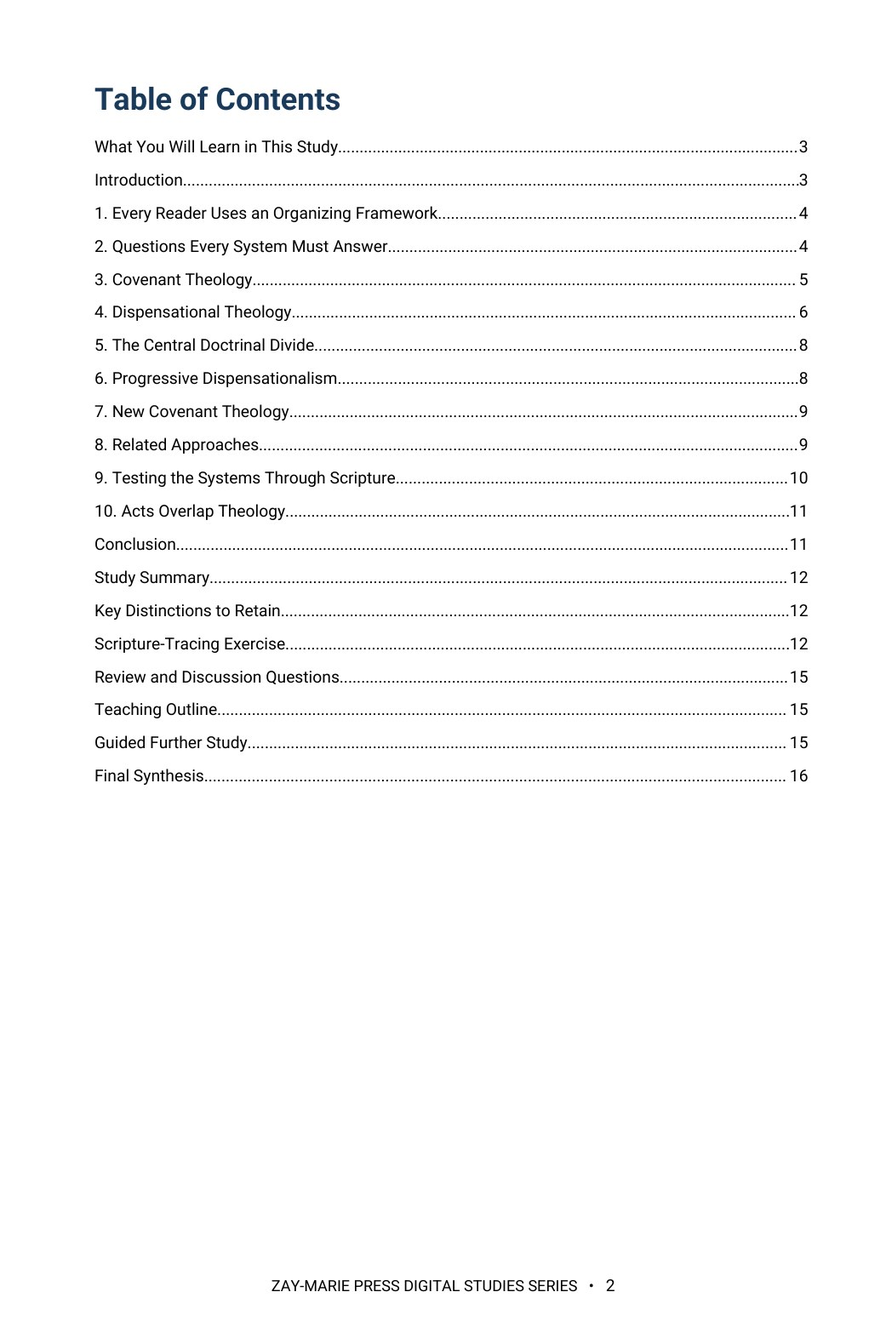
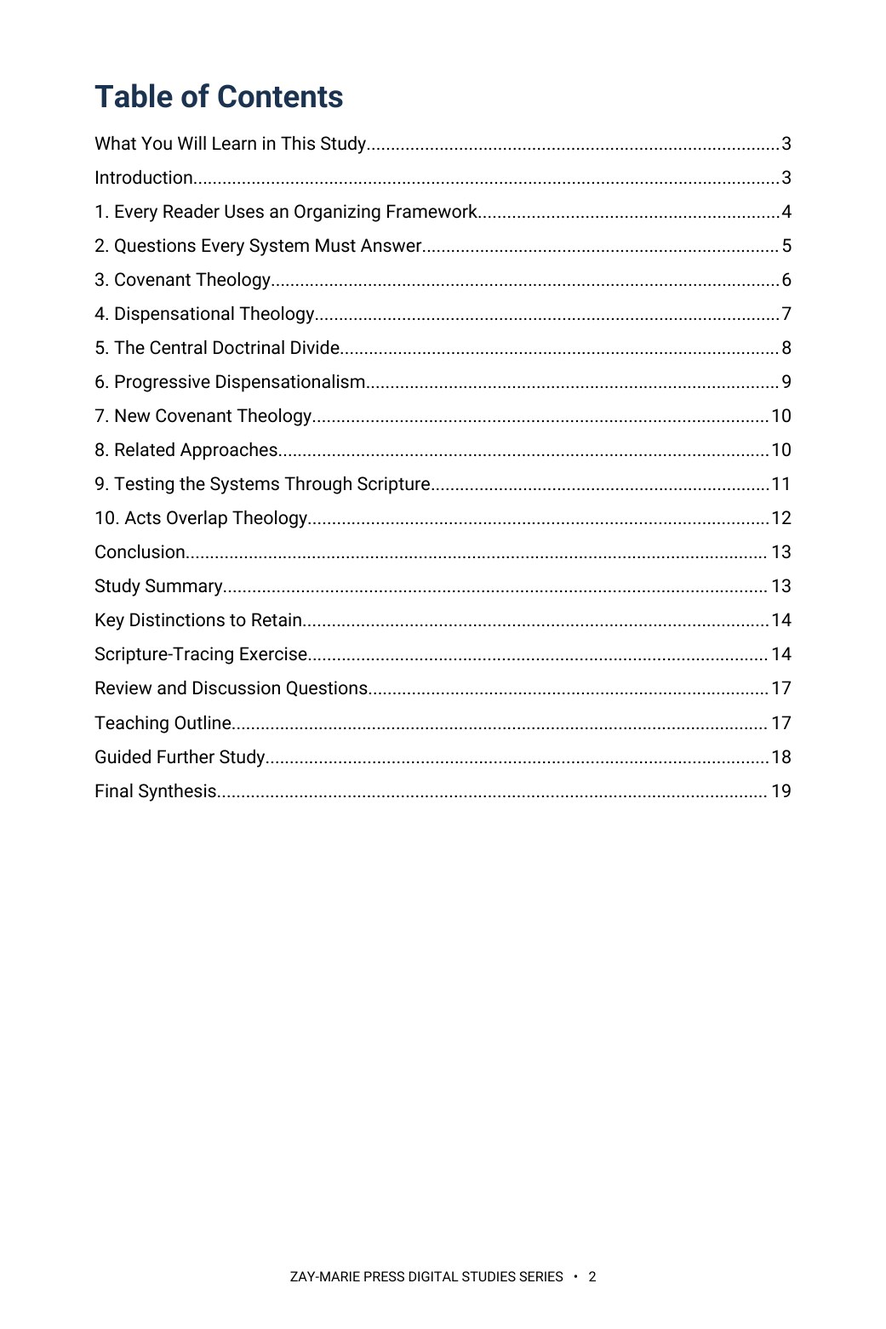
Study 32: retrofit to doctrinal upgrade and v1.48 layout (19 pp, 10 pt); site.js 32:19; previews 2, 3, 5; trackers v1.42/v1.136
Claude-Session: https://claude.ai/code/session_01KcENxFzE91mCRyTPWhcwnE

diff --git a/study-32-covenant-theology-and-dispensational-theology.html b/study-32-covenant-theology-and-dispensational-theology.html
@@ -2,12 +2,12 @@
 <html lang="en"><head><meta charset="utf-8"><meta name="viewport" content="width=device-width,initial-scale=1"><title>Covenant Theology and Dispensational Theology | Zay-Marie Press</title><meta name="description" content="Compare Covenant Theology and Dispensational Theology across biblical unity, covenants, Israel and the Church, prophecy, the Kingdom, and Acts chronology."><link rel="stylesheet" href="styles.css?v=20260921-4"><link rel="icon" type="image/png" href="assets/zay-marie-press-favicon.png"><style>
 .study-detail-page{background:#fff;color:#252525}.detail-hero{background:linear-gradient(135deg,#f8f5ec,#e3ece2);padding:58px 0}.detail-hero-grid{display:grid;grid-template-columns:minmax(250px,.72fr) minmax(0,1.28fr);gap:58px;align-items:center}.detail-cover{max-width:390px;margin:auto}.detail-cover img{display:block;width:100%;height:auto;box-shadow:0 14px 36px rgba(8,45,69,.18)}.detail-hero h1{font-size:clamp(2.7rem,5vw,4.7rem);line-height:1.02;margin:8px 0 10px;color:#143823}.detail-subtitle{font-family:Georgia,serif;font-size:1.35rem;font-weight:700;color:#082d45;margin:0 0 7px}.detail-kicker{font-family:Georgia,serif;font-style:italic;font-size:1.05rem;color:#4a4a44;margin:0 0 22px}.detail-copy{font-size:1.08rem;line-height:1.65;max-width:760px}.detail-buyline{display:flex;align-items:center;gap:18px;flex-wrap:wrap;margin-top:25px}.detail-price{font-family:Georgia,serif;font-size:2rem;font-weight:700;color:#143823}.detail-format,.preview-card .page-no{font-family:Arial,sans-serif;font-size:.76rem;font-weight:700;letter-spacing:.1em;text-transform:uppercase;color:#176b3a}.detail-button{display:inline-block;background:#176b3a;color:#fff;padding:13px 22px;font-family:Arial,sans-serif;font-size:.8rem;font-weight:700;letter-spacing:.07em;text-transform:uppercase}.detail-button.pending{opacity:.72;cursor:default}.detail-section{padding:66px 0}.detail-section.soft{background:#f6f7f2}.detail-section.cream{background:#faf8f2}.detail-section h2{color:#143823;margin:6px 0 18px;font-size:clamp(2rem,3.4vw,3rem)}.detail-section .lead{max-width:920px;font-size:1.1rem;line-height:1.62}.study-distinction{max-width:920px;margin-top:28px;margin-bottom:28px;padding:26px 28px;background:#fff;border:1px solid #d8d1bf;border-left:4px solid #b8871c}.study-distinction h3{margin:0 0 10px;color:#143823}.study-distinction p{margin:0 0 14px;line-height:1.62}.study-distinction a{font-family:Arial,sans-serif;font-weight:700;color:#176b3a;text-decoration:none}.study-points{display:grid;grid-template-columns:repeat(3,1fr);gap:18px;margin-top:28px;margin-bottom:28px}.study-point,.scripture-card,.preview-card,.include-item{background:#fff;border:1px solid var(--line);text-align:left}.study-point{border-top:3px solid #176b3a;padding:22px}.study-point h3{color:#143823;margin:0 0 8px;font-size:1.2rem}.study-point p,.scripture-card p,.preview-card p,.include-item p{margin:0;line-height:1.55}.scripture-grid{display:grid;grid-template-columns:repeat(4,1fr);gap:14px;margin-top:24px;margin-bottom:24px}.scripture-card{padding:22px 20px;color:#143823}.scripture-card h3{margin:0 0 9px;font-family:Georgia,serif;font-size:1rem;line-height:1.35}.scripture-card p{font-size:.94rem;color:#45453f}.excerpt{max-width:900px;margin:28px auto;border-left:4px solid #b8871c;padding:10px 0 10px 28px}.excerpt blockquote{font-family:Georgia,serif;font-size:clamp(1.45rem,2.5vw,2rem);line-height:1.45;color:#143823;margin:0 0 16px}.excerpt p{line-height:1.6;margin:0}.preview-grid{display:grid;grid-template-columns:repeat(2,1fr);gap:20px;margin-top:28px;margin-bottom:28px}.preview-card{padding:18px;min-height:210px;box-shadow:0 7px 20px rgba(20,40,25,.05)}.preview-image-link{display:block;margin:0 0 18px}.preview-image-link img{display:block;width:100%;height:auto;border:1px solid #d8d1bf;box-shadow:0 8px 22px rgba(20,40,25,.1);transition:transform .18s ease,box-shadow .18s ease}.preview-image-link:hover img{transform:translateY(-2px);box-shadow:0 11px 28px rgba(20,40,25,.16)}.preview-card h3{color:#143823;margin:8px 0 10px}.preview-instruction{margin:10px 0 0;font-family:Arial,sans-serif;font-size:.78rem;letter-spacing:.04em;color:#5b5b55}.includes-grid{display:grid;grid-template-columns:repeat(4,1fr);gap:14px;margin-top:26px}.include-item{padding:22px 20px;color:#143823}.include-item h3{margin:0 0 9px;font-family:Arial,sans-serif;font-size:.86rem;line-height:1.35;letter-spacing:.02em}.include-item p{font-size:.94rem;color:#45453f}.final-buy{background:#082d45;color:#fff;border-top:4px solid #b8871c;padding:42px 48px;display:grid;grid-template-columns:1fr auto;gap:36px;align-items:center}.final-buy .eyebrow,.final-buy h2,.final-buy .detail-price{color:#fff}.final-buy h2{margin:7px 0 6px}.final-buy p{margin:0}.final-offer{text-align:center}.back-link{display:inline-block;margin-top:18px;color:#143823;font-family:Arial,sans-serif;font-weight:700;text-decoration:none}.preview-lightbox{position:fixed;inset:0;z-index:10000;display:none;align-items:flex-start;justify-content:center;background:rgba(8,22,16,.88);padding:24px;overflow:auto}.preview-lightbox.open{display:flex}.preview-lightbox img{display:block;width:auto;height:auto;max-width:none;box-shadow:0 18px 55px rgba(0,0,0,.4);background:#fff}.preview-lightbox-close{position:fixed;top:18px;right:24px;z-index:10001;width:46px;height:46px;border:1px solid rgba(255,255,255,.65);border-radius:50%;background:rgba(0,0,0,.55);color:#fff;font:32px/1 Arial,sans-serif;cursor:pointer}@media(max-width:900px){.detail-hero-grid{grid-template-columns:1fr;gap:34px}.detail-cover{max-width:330px}.study-points{grid-template-columns:repeat(2,1fr)}.scripture-grid,.includes-grid{grid-template-columns:repeat(2,1fr)}.preview-grid,.final-buy{grid-template-columns:1fr}.final-offer{text-align:left}}@media(max-width:560px){.detail-hero{padding:42px 0}.detail-section{padding:50px 0}.study-points,.scripture-grid,.includes-grid{grid-template-columns:1fr}.final-buy{padding:32px 24px}.detail-buyline{align-items:flex-start;flex-direction:column;gap:8px}.preview-lightbox{padding:58px 10px 24px}.preview-lightbox img{width:100%;max-width:100%;height:auto}}</style></head><body class="study-detail-page">
 <header class="site-header"><div class="wrap nav"><a class="logo" href="index.html" aria-label="Zay-Marie Press home"><img src="assets/zay-marie-press-logo-hq.png" alt="Zay-Marie Press" width="420" height="238"></a><button class="menu-toggle" type="button" aria-expanded="false" aria-controls="primary-nav">MENU</button><nav aria-label="Primary navigation" class="primary-nav" id="primary-nav"><a href="index.html">HOME</a><a href="books.html">BOOKS</a><a href="series.html">SERIES</a><a class="active" aria-current="page" href="digital-studies.html">DIGITAL STUDIES</a><a href="biblical-hermeneutics-course.html">COURSE</a><a href="about.html">ABOUT</a><a href="resources.html">RESOURCES</a><a href="contact.html">CONTACT</a></nav></div></header><main>
-<section class="detail-hero"><div class="wrap detail-hero-grid"><div class="detail-cover"><picture><source srcset="assets/study-32-cover.webp" type="image/webp"><img src="assets/study-32-cover.jpg" alt="Covenant Theology and Dispensational Theology cover"></picture></div><div><div class="eyebrow">STUDY 32 · DIGITAL STUDY</div><h1>Covenant Theology and Dispensational Theology</h1><p class="detail-subtitle">Comparing the Major Systems That Organize Biblical Revelation</p><p class="detail-kicker">A disciplined comparison of the systems that shape how readers understand the Bible</p><p class="detail-copy">Covenant Theology and Dispensational Theology are the two dominant macro-frameworks in Protestant interpretation. Each offers an integrated account of biblical unity, revelation, covenants, Israel and the Church, prophecy, the Kingdom, and the relationship between the Testaments.</p><p class="detail-copy">This study describes both systems on their own terms, locates major secondary approaches, tests every framework through consistent biblical controls, and explains the distinct Acts Overlap position without turning the study into a product showcase.</p><div class="detail-buyline"><span class="detail-price">$5.99</span><span class="detail-format">Digital PDF · 16 Pages</span><span class="detail-button pending" aria-disabled="true">Checkout Coming Soon</span></div></div></div></section>
+<section class="detail-hero"><div class="wrap detail-hero-grid"><div class="detail-cover"><picture><source srcset="assets/study-32-cover.webp" type="image/webp"><img src="assets/study-32-cover.jpg" alt="Covenant Theology and Dispensational Theology cover"></picture></div><div><div class="eyebrow">STUDY 32 · DIGITAL STUDY</div><h1>Covenant Theology and Dispensational Theology</h1><p class="detail-subtitle">Comparing the Major Systems That Organize Biblical Revelation</p><p class="detail-kicker">A disciplined comparison of the systems that shape how readers understand the Bible</p><p class="detail-copy">Covenant Theology and Dispensational Theology are the two dominant macro-frameworks in Protestant interpretation. Each offers an integrated account of biblical unity, revelation, covenants, Israel and the Church, prophecy, the Kingdom, and the relationship between the Testaments.</p><p class="detail-copy">This study describes both systems on their own terms, locates major secondary approaches, tests every framework through consistent biblical controls, and explains the distinct Acts Overlap position without turning the study into a product showcase.</p><div class="detail-buyline"><span class="detail-price">$5.99</span><span class="detail-format">Digital PDF · 19 Pages</span><span class="detail-button pending" aria-disabled="true">Checkout Coming Soon</span></div></div></div></section>
 <section class="detail-section"><div class="wrap"><div class="eyebrow">ABOUT THIS STUDY</div><h2>Every Reader Uses an Organizing Framework</h2><p class="lead">A framework determines how readers connect earlier promises with later revelation, classify continuity and distinction, identify the recipients of covenants, and understand Israel, the Church, prophecy, and the Kingdom. Those assumptions shape conclusions even when the reader does not use a formal theological label.</p><p class="lead">This study makes those assumptions visible and testable. It compares the systems through the same doctrinal questions so their genuine strengths, differences, and unresolved tensions can be evaluated from Scripture.</p><p class="lead">This is not a study of the Israel–Body distinction itself, which Study 4 establishes on its own terms, nor of the specific method for learning from Israel’s Scriptures, which Study 39 supplies as a working rule. Its task is broader and prior to both: to compare the two organizing frameworks themselves — how each connects promise to fulfillment and assigns covenant recipients — and to test their genuine differences against Scripture rather than against each other’s caricatures.</p><div class="study-distinction"><h3>How These Studies Relate</h3><p>Study 32 compares how covenant theology and dispensational theology organize biblical promises, continuity, and distinctions.</p><p><a href="study-04-israel-and-the-body-of-christ.html">Study 4 — Israel and the Body of Christ</a> Test each system’s treatment of Israel and the Body against a focused study of their corporate identities, callings, and promises; the comparison moves from labels to specific scriptural claims.</p><p><a href="study-39-the-churchs-relationship-to-israels-scriptures.html">Study 39 — The Church’s Relationship to Israel’s Scriptures</a> Apply an audience-sensitive reading method to Israel’s earlier Scriptures; it provides a concrete test of how any larger theological system handles original recipients and present application.</p><p class="connection-guide-link"><a href="study-connections.html#study-32">Explore the full connection guide for Study 32 →</a></p></div></div></section>
 <section class="detail-section soft"><div class="wrap"><div class="eyebrow">WHAT YOU’LL STUDY</div><h2>Compare the Systems Through Consistent Questions</h2><div class="study-points"><div class="study-point"><h3>Biblical Unity</h3><p>Identify what each framework believes holds the canon together as one revelation.</p></div><div class="study-point"><h3>Covenants</h3><p>Compare theological covenant structures with the biblical covenants and their stated recipients.</p></div><div class="study-point"><h3>Israel and the Church</h3><p>Examine whether the two are identified, organically continuous, distinguishable, or programmatically distinct.</p></div><div class="study-point"><h3>Promise and Fulfillment</h3><p>Ask whether later fulfillment preserves the wording, recipient, and terms of earlier promises.</p></div><div class="study-point"><h3>Kingdom and Prophecy</h3><p>Compare present, future, earthly, heavenly, christological, and typological claims.</p></div><div class="study-point"><h3>Paul and Acts</h3><p>Trace how progressive revelation, Paul’s stewardship, and the Acts narrative bear on whether Israel’s and the Body’s commissions operate together, and state a conclusion with its level of evidence.</p></div></div></div></section>
 <section class="detail-section cream"><div class="wrap"><div class="eyebrow">KEY SCRIPTURES</div><h2>Test the Frameworks Against the Text</h2><div class="scripture-grid"><div class="scripture-card"><h3>Genesis 12:1–3</h3><p>The recipients and terms of the Abrahamic promises.</p></div><div class="scripture-card"><h3>2 Samuel 7:8–17</h3><p>The Davidic throne, dynasty, nation, and Kingdom expectation.</p></div><div class="scripture-card"><h3>Jeremiah 31:31–37</h3><p>The named parties and stated promises of the New Covenant.</p></div><div class="scripture-card"><h3>Romans 9–11</h3><p>Israel’s identity, present condition, remnant, and future salvation.</p></div><div class="scripture-card"><h3>Ephesians 2–3</h3><p>The one Body, heavenly position, and Mystery revealed through Paul.</p></div><div class="scripture-card"><h3>Hebrews 8:6–13</h3><p>Later use of Jeremiah’s New Covenant prophecy.</p></div><div class="scripture-card"><h3>Acts 9 and 28</h3><p>Paul’s calling, the local turns to the Gentiles, and the narrative at Rome.</p></div><div class="scripture-card"><h3>Revelation 20–22</h3><p>Kingdom fulfillment, final judgment, and the new creation.</p></div></div></div></section>
 <section class="detail-section"><div class="wrap"><div class="eyebrow">FROM THE STUDY</div><h2>Scripture Must Test Every System</h2><div class="excerpt"><blockquote>“A system is useful only to the extent that it accounts for the text.”</blockquote><p>No theological framework should be protected from passages that place its assumptions under pressure. Meaning, audience, assignment, promise, revelatory setting, and difficult texts must control the conclusion.</p></div></div></section>
-<section class="detail-section soft"><div class="wrap"><div class="eyebrow">A LOOK INSIDE</div><h2>Preview the Study Before You Purchase</h2><p class="preview-instruction">Click any page to enlarge it for reading.</p><div class="preview-grid"><div class="preview-card"><a class="preview-image-link" data-preview-lightbox href="assets/study-32-page-2.jpg"><img src="assets/study-32-page-2.jpg" alt="Study 32 interior preview — page 2, table of contents"></a><div class="page-no">Page 2</div><h3>Table of Contents</h3><p>See how the study moves from framework fundamentals through each system to the biblical controls.</p></div><div class="preview-card"><a class="preview-image-link" data-preview-lightbox href="assets/study-32-page-3.jpg"><img src="assets/study-32-page-3.jpg" alt="Study 32 interior preview — page 3, What You Will Learn and Study Goal"></a><div class="page-no">Page 3</div><h3>What You Will Learn</h3><p>Begin with the skills you will practice in describing, comparing, and testing the major systems.</p></div><div class="preview-card"><a class="preview-image-link" data-preview-lightbox href="assets/study-32-page-5.jpg"><img src="assets/study-32-page-5.jpg" alt="Study 32 interior preview — page 5, framework questions and Covenant Theology"></a><div class="page-no">Page 5</div><h3>Questions Every System Must Answer</h3><p>Compare the frameworks through consistent questions before examining their conclusions.</p></div></div></div></section>
-<section class="detail-section"><div class="wrap"><div class="eyebrow">WHAT’S INCLUDED</div><h2>A Focused Study Built for<br>Comparison and Evaluation</h2><div class="includes-grid"><div class="include-item"><h3>16-Page Biblical Study</h3><p>A detailed comparative treatment of the major systems and related approaches.</p></div><div class="include-item"><h3>Ten Teaching Sections</h3><p>Move from framework fundamentals through the Acts Overlap evaluative position.</p></div><div class="include-item"><h3>Consistent Comparison Method</h3><p>Ask the same controlling questions of every system before reaching conclusions.</p></div><div class="include-item"><h3>Comparative Tables</h3><p>Review the major distinctions through clear, high-contrast reference charts.</p></div><div class="include-item"><h3>Scripture-Tracing Exercise</h3><p>Test covenant, Kingdom, Israel, Church, Pauline, and Acts passages in context.</p></div><div class="include-item"><h3>Review Questions</h3><p>Test both theological understanding and the ability to evaluate frameworks fairly.</p></div><div class="include-item"><h3>Teaching Outline</h3><p>A ready framework for presenting the systems and their differences responsibly.</p></div><div class="include-item"><h3>Guided Further Study</h3><p>Grouped passages and evidence controls help readers continue the investigation independently.</p></div></div></div></section>
-<section class="detail-section cream"><div class="wrap"><div class="final-buy"><div><div class="eyebrow">STUDY 32 · DIGITAL STUDY</div><h2>Covenant Theology and Dispensational Theology</h2><p>Digital PDF · 16 Pages · For personal use</p></div><div class="final-offer"><div class="detail-price">$5.99</div><span class="detail-button pending" aria-disabled="true">Checkout Coming Soon</span></div></div><a class="back-link" href="digital-studies.html">← Back to All Digital Studies</a></div></section><section class="study-method-course-bridge"><div class="wrap"><div class="study-method-course-panel"><div><div class="eyebrow">BUILD THE INTERPRETIVE METHOD</div><h2>Want More Than a Focused Study?</h2><p>Digital Studies examine particular biblical subjects and difficult passages. The 40-lesson Biblical Hermeneutics course teaches a complete, repeatable method for establishing meaning in context, determining proper assignment, and making responsible application.</p></div><a class="btn btn-primary" href="biblical-hermeneutics-course.html">BIBLICAL HERMENEUTICS COURSE</a></div></div></section></main>
+<section class="detail-section soft"><div class="wrap"><div class="eyebrow">A LOOK INSIDE</div><h2>Preview the Study Before You Purchase</h2><p class="preview-instruction">Click any page to enlarge it for reading.</p><div class="preview-grid"><div class="preview-card"><a class="preview-image-link" data-preview-lightbox href="assets/study-32-page-2.jpg"><img src="assets/study-32-page-2.jpg" alt="Study 32 interior preview — page 2, table of contents"></a><div class="page-no">Page 2</div><h3>Table of Contents</h3><p>See how the study moves from framework fundamentals through each system to the biblical controls.</p></div><div class="preview-card"><a class="preview-image-link" data-preview-lightbox href="assets/study-32-page-3.jpg"><img src="assets/study-32-page-3.jpg" alt="Study 32 interior preview — page 3, What You Will Learn and Study Goal"></a><div class="page-no">Page 3</div><h3>What You Will Learn</h3><p>Begin with the skills you will practice in describing, comparing, and testing the major systems.</p></div><div class="preview-card"><a class="preview-image-link" data-preview-lightbox href="assets/study-32-page-5.jpg"><img src="assets/study-32-page-5.jpg" alt="Study 32 interior preview — page 5, the questions every system must answer"></a><div class="page-no">Page 5</div><h3>Questions Every System Must Answer</h3><p>Compare the frameworks through consistent questions before examining their conclusions.</p></div></div></div></section>
+<section class="detail-section"><div class="wrap"><div class="eyebrow">WHAT’S INCLUDED</div><h2>A Focused Study Built for<br>Comparison and Evaluation</h2><div class="includes-grid"><div class="include-item"><h3>19-Page Biblical Study</h3><p>A detailed comparative treatment of the major systems and related approaches.</p></div><div class="include-item"><h3>Ten Teaching Sections</h3><p>Move from framework fundamentals through the Acts Overlap evaluative position.</p></div><div class="include-item"><h3>Consistent Comparison Method</h3><p>Ask the same controlling questions of every system before reaching conclusions.</p></div><div class="include-item"><h3>Comparative Tables</h3><p>Review the major distinctions through clear, high-contrast reference charts.</p></div><div class="include-item"><h3>Scripture-Tracing Exercise</h3><p>Test covenant, Kingdom, Israel, Church, Pauline, and Acts passages in context.</p></div><div class="include-item"><h3>Review Questions</h3><p>Test both theological understanding and the ability to evaluate frameworks fairly.</p></div><div class="include-item"><h3>Teaching Outline</h3><p>A ready framework for presenting the systems and their differences responsibly.</p></div><div class="include-item"><h3>Guided Further Study</h3><p>Grouped passages and evidence controls help readers continue the investigation independently.</p></div></div></div></section>
+<section class="detail-section cream"><div class="wrap"><div class="final-buy"><div><div class="eyebrow">STUDY 32 · DIGITAL STUDY</div><h2>Covenant Theology and Dispensational Theology</h2><p>Digital PDF · 19 Pages · For personal use</p></div><div class="final-offer"><div class="detail-price">$5.99</div><span class="detail-button pending" aria-disabled="true">Checkout Coming Soon</span></div></div><a class="back-link" href="digital-studies.html">← Back to All Digital Studies</a></div></section><section class="study-method-course-bridge"><div class="wrap"><div class="study-method-course-panel"><div><div class="eyebrow">BUILD THE INTERPRETIVE METHOD</div><h2>Want More Than a Focused Study?</h2><p>Digital Studies examine particular biblical subjects and difficult passages. The 40-lesson Biblical Hermeneutics course teaches a complete, repeatable method for establishing meaning in context, determining proper assignment, and making responsible application.</p></div><a class="btn btn-primary" href="biblical-hermeneutics-course.html">BIBLICAL HERMENEUTICS COURSE</a></div></div></section></main>
 <div class="preview-lightbox" id="preview-lightbox" role="dialog" aria-modal="true" aria-label="Expanded study preview"><button class="preview-lightbox-close" type="button" aria-label="Close preview">×</button><img id="preview-lightbox-image" alt=""></div><footer class="site-footer"><div class="wrap footer-grid"><div class="footer-about"><h3>Zay-Marie Press</h3><p class="footer-tagline"><em>Where the Bible Means What It Says.</em></p><p>Zay-Marie Press is a Christian theological publisher dedicated to producing doctrinally precise, carefully structured biblical resources that equip pastors, teachers, and serious students with clarity, depth, and Scripture-anchored truth.</p><p><a href="https://zaymariepress.com">zaymariepress.com</a><br><a href="mailto:info@zaymariepress.com">info@zaymariepress.com</a></p></div><div class="footer-column"><h3>Explore</h3><div class="footer-links-stacked"><a href="books.html">Books</a><br><a href="series.html">Series</a><br><a href="biblical-hermeneutics-course.html">Course</a><br><a href="digital-studies.html">Digital Studies</a><br><a href="resources.html">Resources</a><br><a href="bible-book-summaries.html">Bible Book Summaries</a><br><a href="doctrinal-packets.html">Doctrinal Packets</a><br><a href="historical-drift.html">Historical Drift</a><br><a href="about.html">About</a><br><a href="contact.html">Contact</a></div></div><div class="footer-column"><h3>Reader Support</h3><div class="footer-links-stacked"><a href="reader-support.html#faq">FAQ</a><br><a href="reader-support.html#shipping-returns">Shipping &amp; Returns</a><br><a href="reader-support.html#digital-downloads">Digital Downloads</a><br><a href="reader-support.html#contact-support">Contact Support</a></div></div><div class="footer-column"><h3>Acts Overlap</h3><p><strong>Acts Overlap Theology Series</strong></p><p><em>Two Distinct Streams. One Overlap.</em></p><p><a href="series.html">Series Overview</a></p></div></div><div class="wrap footer-bottom">© 2026 Zay-Marie Press. All rights reserved.</div></footer><script src="site.js"></script><script>const lightbox=document.getElementById('preview-lightbox'),lightboxImage=document.getElementById('preview-lightbox-image'),closeLightbox=()=>{lightbox.classList.remove('open');lightboxImage.src='';};document.querySelectorAll('[data-preview-lightbox]').forEach(link=>link.addEventListener('click',event=>{event.preventDefault();lightboxImage.src=link.href;lightboxImage.alt=link.querySelector('img').alt;lightbox.classList.add('open');}));document.querySelector('.preview-lightbox-close').addEventListener('click',closeLightbox);lightbox.addEventListener('click',event=>{if(event.target===lightbox)closeLightbox();});document.addEventListener('keydown',event=>{if(event.key==='Escape')closeLightbox();});</script></body></html>

diff --git a/site.js b/site.js
@@ -62,7 +62,7 @@ const resourceModal=document.querySelector('#resource-modal'), resourceModalTitl
 if(resourceModal&&resourceModalTriggers.length){const closeResourceModal=()=>{resourceModal.hidden=true;document.body.classList.remove('resource-modal-open');lastResourceTrigger?.focus();};resourceModalTriggers.forEach(trigger=>trigger.addEventListener('click',()=>{lastResourceTrigger=trigger;if(resourceModalTitle)resourceModalTitle.textContent=trigger.dataset.title||'Resource';if(resourceModalDescription)resourceModalDescription.textContent=trigger.dataset.description||'';if(resourceModalLink){resourceModalLink.href=trigger.dataset.href||'#';resourceModalLink.textContent=trigger.dataset.linkText||'OPEN RESOURCE';}resourceModal.hidden=false;document.body.classList.add('resource-modal-open');resourceModalClose?.focus();}));resourceModalClose?.addEventListener('click',closeResourceModal);resourceModal.addEventListener('click',e=>{if(e.target===resourceModal)closeResourceModal();});document.addEventListener('keydown',e=>{if(e.key==='Escape'&&!resourceModal.hidden)closeResourceModal();});}
 
 /* Display the verified final-PDF page count at the primary purchase decision point. */
-const digitalStudyPageCounts={1:17,2:14,3:16,4:18,5:16,6:16,7:14,8:13,9:16,10:20,11:15,12:15,13:19,14:15,15:16,16:16,17:18,18:18,19:16,20:16,21:17,22:16,23:14,24:16,25:17,26:16,27:16,28:16,29:19,30:17,31:18,32:16,33:16,34:16,35:16,36:16,37:16,38:16,39:16,40:16,41:16,42:16,43:16,44:16,45:16,46:16,47:16,48:16,49:17,50:16,51:16,52:16,53:16,54:16,55:16,56:16,57:16,58:16,61:16,62:16,63:16,64:16,65:16,66:16,67:16,68:16,69:16,70:16,71:16};
+const digitalStudyPageCounts={1:17,2:14,3:16,4:18,5:16,6:16,7:14,8:13,9:16,10:20,11:15,12:15,13:19,14:15,15:16,16:16,17:18,18:18,19:16,20:16,21:17,22:16,23:14,24:16,25:17,26:16,27:16,28:16,29:19,30:17,31:18,32:19,33:16,34:16,35:16,36:16,37:16,38:16,39:16,40:16,41:16,42:16,43:16,44:16,45:16,46:16,47:16,48:16,49:17,50:16,51:16,52:16,53:16,54:16,55:16,56:16,57:16,58:16,61:16,62:16,63:16,64:16,65:16,66:16,67:16,68:16,69:16,70:16,71:16};
 const digitalStudyMatch=window.location.pathname.match(/\/study-(\d+)-/i);
 const digitalStudyFormat=document.querySelector('.detail-hero .detail-format');
 if(digitalStudyMatch&&digitalStudyFormat){const studyNumber=Number(digitalStudyMatch[1]),pageCount=digitalStudyPageCounts[studyNumber];if(pageCount)digitalStudyFormat.textContent=`Digital PDF · ${pageCount} Pages`;}

diff --git a/controlling-documents/Doctrinal_Upgrade_Retrofit_Plan_v1.42.md b/controlling-documents/Doctrinal_Upgrade_Retrofit_Plan_v1.42.md
@@ -51,6 +51,7 @@ Working tracker for correcting published studies to the Framework/PAM v1.1, Mast
 | 26 The Seven Churches of Revelation | Tier 2 read (Revelation assigned, Body absent, anchors, internal terms) | DONE 2026-10-02 (v1.37): rebuilt to the Study 52 page geometry (18 → 16 pp, Roboto Regular/Bold). Removed 'The Framework notes', 'The Framework Control Document', 'the Framework’s taxonomy' and the false 'Program Assignment Manual assigns no program to Revelation' line; generic 'framework' removed; hedge replaced by the standing Revelation line (Body absent; Revelation, like Daniel’s 70th week, wholly Israel’s Prophecy Program) in section 14; Philadelphia/Rev 3:10 not a statement about the Body; Colossians anchor added (section 3). Third preview now PDF page 10 (study-26-page-10.jpg). Imprint extra KJV sentence left for Wave 5. |
 | 29 One Taken and the Other Left | Tier 2 read (one taken/left ruling, Day of the Lord, anchors, internal terms) | DONE 2026-10-02 (v1.38; reset to 10 pt body and enforced table spacing in v1.40, 19 pp, site.js 29:19, previews 2, 3, 9): rebuilt to the Study 52 page geometry (16 → 17 pp at 9 pt, Roboto Regular/Bold). Removed 'the Framework’s assignment' (Conclusion) and 'Kingdom framework'; added the Body-not-in-the-Day-of-the-Lord line (section 9), the Matthew 25 nations line (section 7) and the 1 Thessalonians/Philippians reader-facing anchor (section 9). One taken/left reading already conformed (Israel’s Tribulation separation, not a rapture text). Previews 2, 3, 8 re-rendered. TOC check hardened (monotonic page search; Studies 23, 26 re-verified). Imprint extra KJV sentence left for Wave 5. |
 | 31 The Judgments of Scripture | Tier 2 read (Acts 28, Day of the Lord, Revelation, Galatians 3, anchors, internal terms) | DONE 2026-10-02 (v1.41): rebuilt to the Study 52 page geometry at 10 pt body with 10 pt table spacing (19 → 18 pp, Roboto Regular/Bold). Removed 'The Framework assigns … not a PAM assignment' (replaced by a Matthew 25 anchor), 'Acts Overlap framework', 'five-question framework'; Acts 28 'not a transfer'; Body-not-in-the-Day-of-the-Lord and Revelation/Daniel lines (section 6); Matthew 25 nations line (section 7); Galatians 3 standing sentence (section 3); Colossians/2 Timothy and 2 Peter/Jude anchors (sections 5, 8). Page text: 'framework' wording replaced (method / outline). Previews 2, 3, 5 re-rendered. Imprint extra KJV sentence left for Wave 5. |
+| 32 Covenant and Dispensational Theology | Tier 2 read (Rule 18 synagogue mention, Acts 28, overlap, Rule 17, Romans 11 passing citation, Revelation, Hebrews, internal terms) | DONE 2026-10-03 (v1.42): rebuilt to the Study 52 page geometry at 10 pt body with 10 pt table spacing (16 → 19 pp, Roboto Regular/Bold). Hebrews and Revelation 20–22 working-term sentences replaced by reader-facing wording; overlap sentence, Rule 17 sentence, Acts 28 'not a transfer', full Rule 18 sentence with short form, and the Romans 11 four boundaries plus triad added; 'macro-framework' kept as teaching vocabulary. Website: site.js 32:19, 19 Pages in the page text, previews 2, 3, 5 re-rendered. |
 | 39 The Church's Relationship to Israel's Scriptures | Abrahamic/covenant participation + overlap sentence | DONE 2026-10-02 (v1.23): interior corrected (16 pp, Roboto). Withdrawn overlap sentence replaced with the standing sentence and Acts 28 'not abolition and not a transfer' added (§9); 'Gentiles participate spiritually' replaced by the standing Galatians 3 sentence (§8) and 'whole/every covenant term' partial-transfer wording tightened (§8, Study Summary, Key Distinctions table); Romans 11 four-point list and triad added (Introduction); 2 Timothy and Philippians anchors converted and a Colossians anchor added. Sections moved down: TOC updated (7 numbers); 16 pp. Website: previews 2, 3, 5 re-rendered at 1041x1565; site.js 39:16 unchanged |
 | 40 Who Is Abraham's Seed? | Gal 3 / Abrahamic participation (core) | DONE 2026-10-02 (v1.22): interior corrected (16 pp, Roboto). Withdrawn overlap sentence replaced with the standing sentence (Introduction); Romans 11 four-point list and triad added (Introduction); the 'Gentiles participate spiritually / Abrahamic heirship, benefit, inheritance, connection' family replaced with the standing Galatians 3 sentence and plain wording (§6, §8, §10, Study Summary, Key Distinctions table); Romans 4 'participate in promise' and Teaching Outline 'share that benefit' reworded. Sections moved down: TOC updated (Conclusion p10, Scripture-Tracing p11, Guided Further Study p16); 16 pp. Website: preview pages 2, 3 and 4 re-rendered; site.js 40:16 unchanged |
 | 52 Sonship and Adoption | Gal 3 / Abrahamic participation | DONE 2026-10-02 (v1.21): interior corrected (16 pp, Roboto). Withdrawn Galatians 3:26–29 'Gentiles participate spiritually / ethnic distinction is kept' wording replaced by the standing Galatians 3 sentence (3.4) and the 'participation in the seed is spiritual' line reworded; Study 40 pointer parenthetical removed; nine 'The Framework does not assign…' anchors and the Hebrews sentence converted to the reader-facing forms; Romans 11 four-point list and triad added (Group 3). Shorter anchors moved sections up a page, so TOC numbers updated (§5 p9, §6 p11, Conclusion p12, etc.); total still 16 pp. Website: page-2 (TOC) preview re-rendered; pages 3 and 5 unchanged |
@@ -126,3 +127,4 @@ Working tracker for correcting published studies to the Framework/PAM v1.1, Mast
 - v1.39 (2026-10-02): NEW RULE (Master Standard v1.48, rule-synced in CLAUDE.md): body text is 10 pt (was 9 pt) and every table, callout boxes included, has 10 pt of controlled spacing before and after (a paragraph after a table never touches it). Every study rebuilt so far (1, 3, 7, 8, 10, 23, 26, 29 and the others built at 9 pt) must be reset to 10 pt when reopened or in Wave 5, with page counts, TOC pages, previews and site.js following each rebuild; every new rebuild is built at 10 pt from now on. Study 29 rebuilt at 10 pt as review copy v2 (19 pp; website step pending the publisher's approval: site.js 29:19, previews 2/3/8 re-rendered). Wave 5 step-1 check now reports body size and the first paragraph after each table. Next: Wave 4 remainder (31, 32, 33).
 - v1.40 (2026-10-02): Study 29 v2 (10 pt body, table spacing fixed; 19 pp) website step done: site.js 29:19, previews 2, 3 and 9 re-rendered (Luke 17 KJV table now on PDF page 9; study-29-page-8.jpg removed). Next: Wave 4 remainder (31, 32, 33); studies built at 9 pt reset to 10 pt when reopened or in Wave 5.
 - v1.41 (2026-10-02): Study 31 retrofit complete at 10 pt (see row). Next: Wave 4 remainder (32, 33): DOCX needed from the publisher for each. Open: Titus anchor ruling.
+- v1.42 (2026-10-03): Study 32 retrofit complete at 10 pt (see row). Next: Wave 4 remainder (33): DOCX needed from the publisher. Open: Titus anchor ruling.

diff --git a/CLAUDE.md b/CLAUDE.md
@@ -21,7 +21,7 @@ These are kept in the repo at `controlling-documents/` and are the current versi
 - As of v1.48 (publisher directive, 2026-10-02), §6 sets the **body-text standard at 10 pt** and enforces the table-spacing rule, written into this file in the same pass: body paragraphs, lists, table body text and Table of Contents entries are Roboto Regular 10 pt black (previously 9 pt), at 6 pt after / 0 before / 1.08 line spacing (lists 0 pt after each item, 6 pt after the last); headings (17 pt), callout titles (10 pt bold caps), the "Study Outline" sub-heading (12 pt) and the footer are unchanged. Every table, callout boxes included, has 10 pt of controlled spacing before and after: the paragraph before a table has at least 10 pt space-after and the paragraph after it at least 10 pt space-before, so body text never touches a table (the defect was seen on Study 29, under a KJV table). Studies built at 9 pt (1, 3, 7, 8, 10, 23, 26, 29 and the other rebuilt studies) are reset to 10 pt when reopened or in the Wave 5 sweep, and page counts, TOC pages, previews and `site.js` follow each rebuild. In every study check (Step 1) report the body size and measure the first paragraph after each table. Study 29 is the first study rebuilt to it.
 **`controlling-documents/Digital_Studies_Relationship_Map_v1.39.md`** — records each study's distinct subject, its related studies, the eight priced six-study collections, the Paul's Missionary Journeys cross-reference map, and the five primary catalog categories (currently version 1.39, covers Studies 1–71; update it as new studies publish, bump the version number, rename the file to match, and log the change in its own version-history table — mirroring the Master Standard's `_vX.Y` filename convention). Check a proposed topic against it before recommending or writing a new study. (2026-09-28: the file was missing from this repo despite this note referencing it; replaced from the publisher's copy and bumped v1.15→v1.25 in the same pass. If this note ever again points to a version not present under `controlling-documents/`, ask the publisher for a copy rather than proceeding without the check.)
 - **`controlling-documents/Digital_Studies_Category_Standard_v1.1.md`** — FINAL and binding (publisher, 2026-10-01): the rules for the five primary catalog categories (Foundations, Israel & Prophecy, Body of Christ, Passages, Doctrinal Themes), the ordered decision procedure for new studies, the precedents, all 71 fixed assignments, and the cover-label form for each category. Read it before placing any card or cover label. Do not ask the publisher where a study belongs; apply the procedure and state the result. Only the publisher changes a ruling; then bump this Standard's version and filename, re-letter the cover, and update the Relationship Map.
-- **`controlling-documents/Doctrinal_Upgrade_Retrofit_Plan_v1.41.md`** — working tracker for retrofitting Studies 1–59 to the 2026-10-02 doctrinal upgrade (Framework/PAM v1.1, Master Standard v1.40, Rules 7–17): withdrawn-wording search keys, impact tiers, waves and the per-study method. Read it before continuing the retrofit in any session; update status, bump the version and rename the file as work proceeds.
+- **`controlling-documents/Doctrinal_Upgrade_Retrofit_Plan_v1.42.md`** — working tracker for retrofitting Studies 1–59 to the 2026-10-02 doctrinal upgrade (Framework/PAM v1.1, Master Standard v1.40, Rules 7–17): withdrawn-wording search keys, impact tiers, waves and the per-study method. Read it before continuing the retrofit in any session; update status, bump the version and rename the file as work proceeds.
 - **`controlling-documents/Doctrinal_Packet_Standard_v0.3.md`** — Doctrinal Packet Standard (DRAFT; §7 approved). Governs the separate Doctrinal Packets product strand (5-page interpretive PDFs per Bible book — a print-friendly cover as page 1 plus 4 content pages, $2.99, KJV, pilot: Genesis, live at `packet-genesis.html`, hub `doctrinal-packets.html`; site pages say "5 Pages", cover styles live in `packets.css`, Old Testament blue and New Testament soft pale green, hub listed in Bible order). **Preview rule (publisher directive, 2026-09-29, packets only):** previews show about one page's worth in two cropped views (top of page 1 through the anchor texts; the chart section) — never the exegesis, architecture, Mystery contrast, logic chain, outline, or closing. Master Standard §16/§17 still govern Digital Studies. Bump the version and rename the file as the Standard is finalized.
 - **`controlling-documents/Preview_Page_Spoiler_Retrofit_Audit_v1.4.md`** — working tracker for the Studies 1–60 preview-page conclusion-spoiler retrofit (see the section below). Read it before continuing that audit in any session; update its status fields and changelog, bump the version, and rename the file to match as the audit proceeds — same `_vX.Y` convention as the other controlling documents. As of v1.1, the website-side half was DONE: all 60 studies' "What You'll Study" text was judged against the rule (methodology documented in the file) and 22 points across 11 studies were rewritten and pushed; an unrelated Study 22 content bug (Study 21's content had leaked into it) was also found and fixed. As of v1.2, the publisher supplied Studies 1–60's interior production PDFs and the interior-PDF half was also surveyed (read-only): 10 studies (37, 41, 45, 47, 48, 49, 51, 52, 53, 54) were found to have at least one interior "What You Will Learn" violation, 50 studies were confirmed compliant, and the orphaned `assets/study-45-sanctification-under-grace.docx` (removed from the repo per the publisher in v1.0) was confirmed word-for-word identical to Study 45's actual production interior PDF content. As of v1.3, the publisher supplied editable DOCX sources for all 10 violating studies; all 15 violating points were rewritten and approved, delivered as corrected final PDFs, and — along the way — a second defect was found and fixed (Studies 47 and 48's source DOCX still had an unintegrated cover placeholder despite both being long-published live with real covers; fixed by inserting the existing approved cover art). The website's "What You Will Learn" preview image (`study-NN-page-3.jpg`) was regenerated from the corrected content for all 10 studies and pushed to `main` (commit `cea1859`), verified against a fresh clone. **The website side of this audit is now fully compliant for all 60 studies.** Outstanding: the publisher's purchasable interior PDF files themselves have corrected versions delivered, but distribution to existing purchasers was decided by the publisher on 2026-09-29: silent swap of the files behind the existing downloads, no reissue notice (recorded in the v1.4 changelog entry; the product files are not in this repo).
 

diff --git a/controlling-documents/Digital_Studies_PAM_Audit_v1.136.md b/controlling-documents/Digital_Studies_PAM_Audit_v1.136.md
@@ -365,3 +365,4 @@ Study 15 PDF not yet supplied. Typography: none of Studies 2, 3, 6, 8 is in EB G
 - v1.133 (2026-10-02): Master Standard v1.48 / CLAUDE.md: body text 10 pt and enforced 10 pt table spacing (first seen as body text touching a KJV table on Study 29). Study 29 review copy v2 built at 10 pt (19 pp); website step pending.
 - v1.134 (2026-10-02): Study 29 v2 live (10 pt body, enforced table spacing; 19 pp); previews 2, 3 and 9; site.js 29:19.
 - v1.135 (2026-10-02): Study 31 retrofitted at 10 pt: Framework/PAM sentence replaced by a Matthew 25 anchor, Acts 28 'not a transfer', Day-of-the-Lord/Revelation/Daniel, Matthew 25 nations, Galatians 3 and four anchor lines added; 18 pp; 'framework' wording removed from the page; previews 2, 3, 5.
+- v1.136 (2026-10-03): Study 32 retrofitted at 10 pt: Hebrews and Revelation 20–22 working-term sentences replaced; overlap, Rule 17, Acts 28 'not a transfer', full Rule 18 and Romans 11 boundaries added; 19 pp; previews 2, 3, 5; site.js 32:19.
